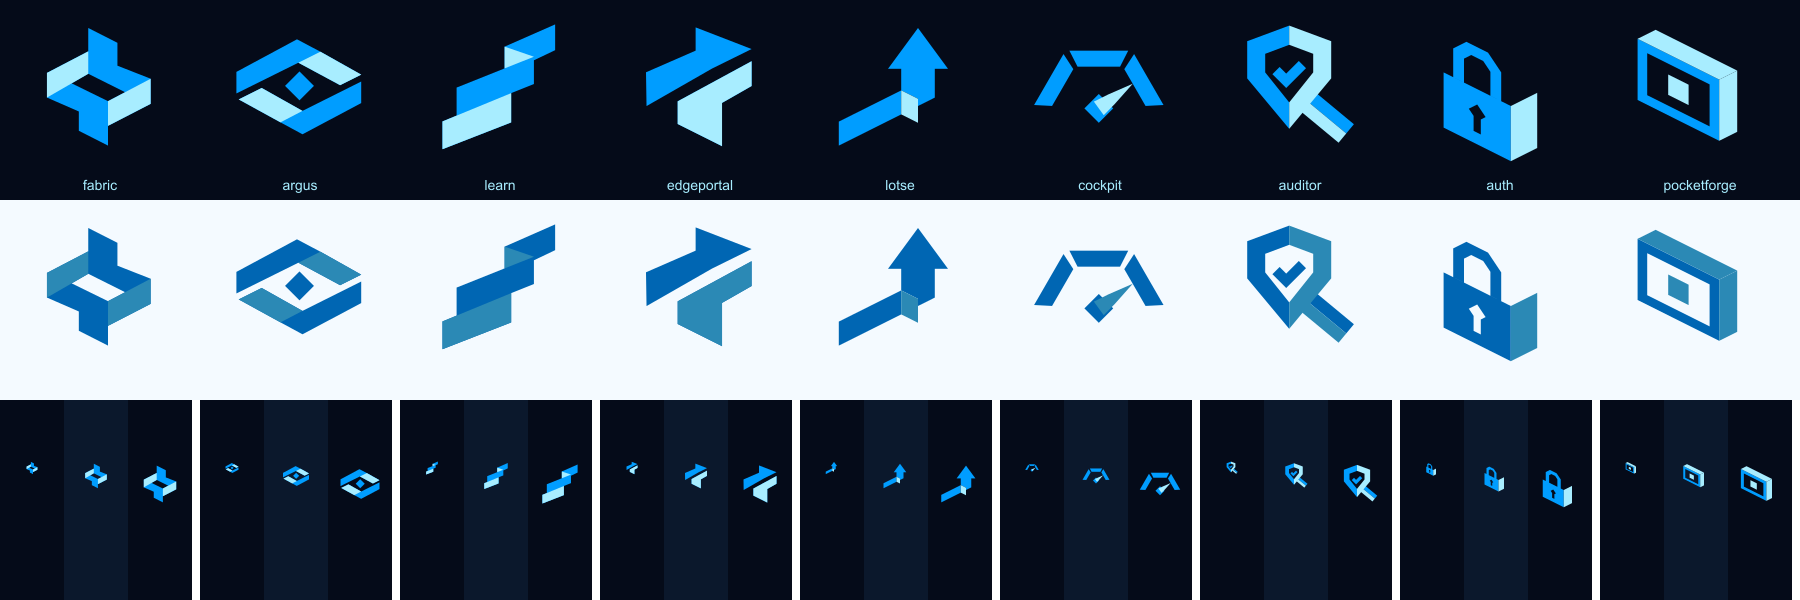
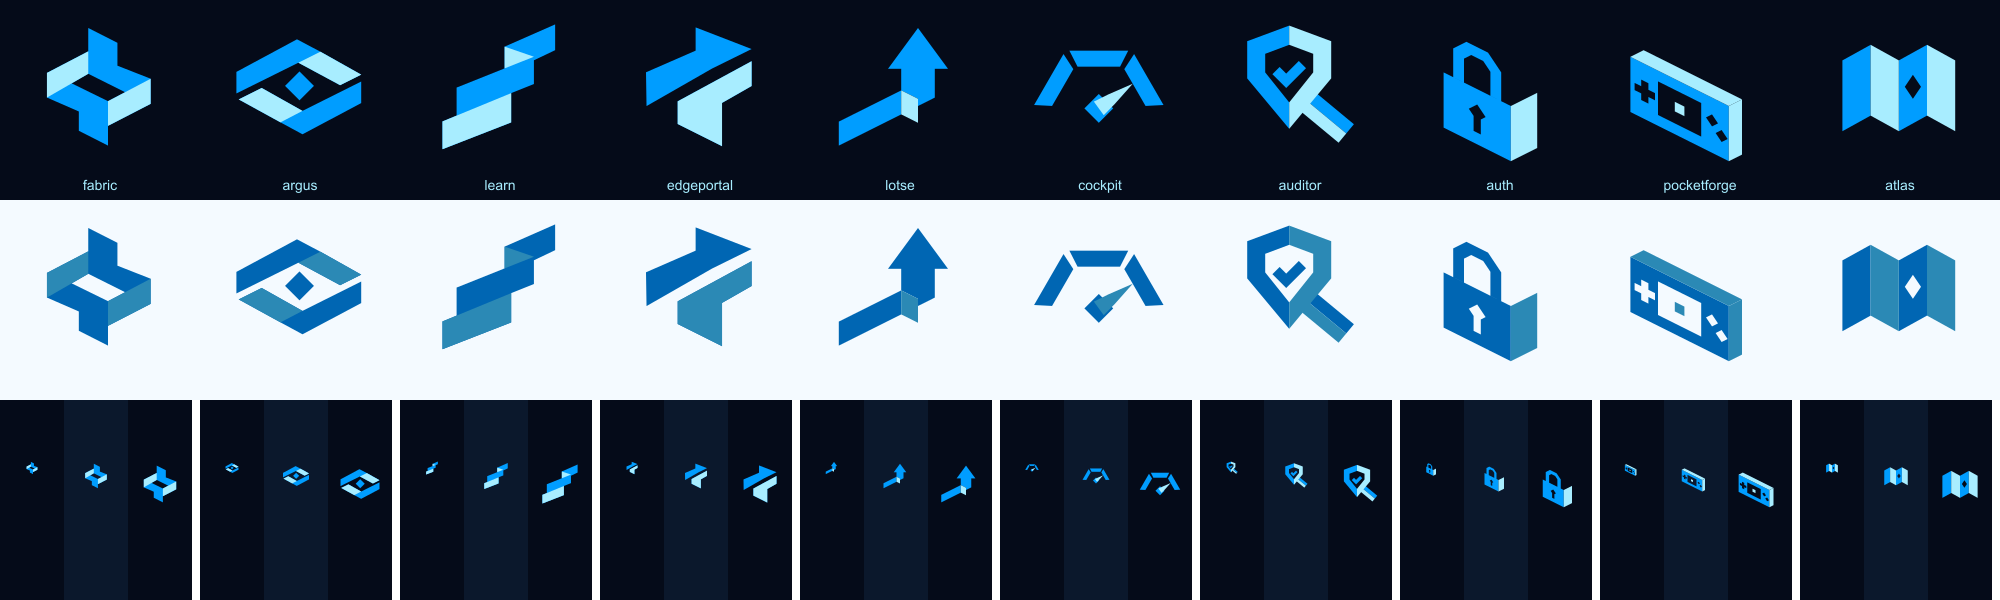
feat(rapold): Atlas signet proposal and PocketForge as a gaming handheld
- Atlas, the design system itself (atlas.rapold.io, repo mra-atlas), gets
  a proposal signet: a four-panel folded map with a cut-out location mark.
- PocketForge becomes an isometric handheld with screen, lit pixel, D-pad
  and two buttons so the gaming context reads at a glance.
- Catalogue, provenance, docs, review sheets and counts updated
  (10 products, 520 exports, 57 resources); proposal grid is 3 x 2.

diff --git a/apps/docs/app/_components/reference-page.tsx b/apps/docs/app/_components/reference-page.tsx
@@ -47,6 +47,6 @@ export default function ReferencePage({section='overview'}:{section?:string}){
  {section==='engineering'&&<div className="download-row"><a href="/contracts/engineering.md">Vollständiger Engineering-Vertrag</a><a href="https://github.com/marcelrapold/design/blob/main/CHANGELOG.md">Changelog</a></div>}
 
  {section==='agenten'&&<><label>Repository<Input value={repo} onChange={e=>setRepo(e.target.value)}/></label><pre>{prompt}</pre><Button onClick={()=>copy(prompt)}>Prompt kopieren</Button><p role="status">{copied}</p><div className="download-row"><a href={`/brands/${brand.id}/llms.txt`}>Agenten-Einstieg · {brand.id==='neutral'?'Default':brand.name}</a><a href={`/brands/${brand.id}/management.md`}>Vollständiger Management-Ablauf</a></div></>}
- {section==='coverage'&&<><div className="notice">Referenz: Atlas-Commit 1c75c95417cc371040e1e24a0986213314b53c13. Ein übernommenes Modul ist noch kein Nachweis vollständiger visueller Parität.</div><div className="data-table"><table><thead><tr><th>Bereich</th><th>Umsetzung</th></tr></thead><tbody>{[['UI-Primitives','19 von 19 exportierten Modulen übernommen und neutralisiert'],['Navigation','Gruppen, Suche, Rail, Breadcrumbs und mobile Navigation'],['Design-Tokens','Alle neutralen Atlas-Farbrollen; zusätzliche Skalen, semantische Exporte und Brand-Overrides'],['Präsentation','18 Rezepte, fünf Presets, 13 Typorollen und vermessene Geometrie'],['Icons','Vollständiger neutraler Lucide-Satz, Suche, Import und SVG'],['Firmenassets','ZVV-spezifische Logos, Linienzeichen, Lotties und Infrastruktur bewusst ausgeschlossen'],['Spezial-Showcases','Mermaid mit fünf Atlas-Beispielen, Vollbild, Brand-Themes und SVG-/MMD-Export, TanStack-Tabelle, Recharts, Formular-, Login- und Mail-Muster ausführbar. Organigramm und Zuständigkeiten mit Atlas-Renderer, SVG- und HTML-Export. ECharts mit Balken, Donut, Zeitreihe, Heatmap und SVG-Export.'],...(brand.id==='rapold'?[['Rapold','Vier freigegebene und fünf vorgeschlagene Produktzeichen, lokale Geist-Fonts, reproduzierbare Exporte und gemeinsame semantische Rollen']]:brand.id==='dominicano-express'?[['Dominicano Express','Eigenständiger Adapter mit Hell und Dunkel sowie Brand-spezifischen Inhaltsbeispielen']]:[['Default-Preset','Neutrale Basis mit Hell und Dunkel; keine Firmenassets']])].map(([a,b])=><tr key={a}><td>{a}</td><td>{b}</td></tr>)}</tbody></table></div></>}
+ {section==='coverage'&&<><div className="notice">Referenz: Atlas-Commit 1c75c95417cc371040e1e24a0986213314b53c13. Ein übernommenes Modul ist noch kein Nachweis vollständiger visueller Parität.</div><div className="data-table"><table><thead><tr><th>Bereich</th><th>Umsetzung</th></tr></thead><tbody>{[['UI-Primitives','19 von 19 exportierten Modulen übernommen und neutralisiert'],['Navigation','Gruppen, Suche, Rail, Breadcrumbs und mobile Navigation'],['Design-Tokens','Alle neutralen Atlas-Farbrollen; zusätzliche Skalen, semantische Exporte und Brand-Overrides'],['Präsentation','18 Rezepte, fünf Presets, 13 Typorollen und vermessene Geometrie'],['Icons','Vollständiger neutraler Lucide-Satz, Suche, Import und SVG'],['Firmenassets','ZVV-spezifische Logos, Linienzeichen, Lotties und Infrastruktur bewusst ausgeschlossen'],['Spezial-Showcases','Mermaid mit fünf Atlas-Beispielen, Vollbild, Brand-Themes und SVG-/MMD-Export, TanStack-Tabelle, Recharts, Formular-, Login- und Mail-Muster ausführbar. Organigramm und Zuständigkeiten mit Atlas-Renderer, SVG- und HTML-Export. ECharts mit Balken, Donut, Zeitreihe, Heatmap und SVG-Export.'],...(brand.id==='rapold'?[['Rapold','Vier freigegebene und sechs vorgeschlagene Produktzeichen, lokale Geist-Fonts, reproduzierbare Exporte und gemeinsame semantische Rollen']]:brand.id==='dominicano-express'?[['Dominicano Express','Eigenständiger Adapter mit Hell und Dunkel sowie Brand-spezifischen Inhaltsbeispielen']]:[['Default-Preset','Neutrale Basis mit Hell und Dunkel; keine Firmenassets']])].map(([a,b])=><tr key={a}><td>{a}</td><td>{b}</td></tr>)}</tbody></table></div></>}
  </>;
 }

diff --git a/apps/docs/app/_components/catalog.ts b/apps/docs/app/_components/catalog.ts
@@ -28,9 +28,9 @@ export const guidance:Record<string,{intro:string;sections:{title:string;body:st
 export function guidanceFor(section:string, brandId:string) {
  const base=guidance[section];
  if(!base)return base;
- if(brandId==='rapold'&&section==='brand')return {intro:'Eine Rapold-Brand mit eigenständigen Produktzeichen und gemeinsamen UI-Rollen: vier freigegeben, fünf als Vorschlag.',sections:[
+ if(brandId==='rapold'&&section==='brand')return {intro:'Eine Rapold-Brand mit eigenständigen Produktzeichen und gemeinsamen UI-Rollen: vier freigegeben, sechs als Vorschlag.',sections:[
   {title:'Originale und Ableitungen',body:'Die Raumfalten-Signets stammen aus dem ausgewählten Logo-Entwurf. Geometrie und Identitätsfarben bleiben unverändert. UI-Farben, Fokus und Status sind dokumentierte Kontrastableitungen für Hell und Dunkel.'},
-  {title:'Ein Vertrag für alle Produkte',body:'Fabric, Argus, ÆON Learn und EdgePortal verwenden dieselbe Rapold-Brand mit freigegebenen Signets. Lotse, Cockpit, Auditor, Rapold Auth und PocketForge sind als Vorschläge aus ihren bisherigen Zeichen abgeleitet. Der separate Produktkatalog bestimmt das jeweilige Signet und seinen Status. Es gibt kein zusätzlich erfundenes Dachzeichen.'},
+  {title:'Ein Vertrag für alle Produkte',body:'Fabric, Argus, ÆON Learn und EdgePortal verwenden dieselbe Rapold-Brand mit freigegebenen Signets. Lotse, Cockpit, Auditor, Rapold Auth, PocketForge und Atlas sind als Vorschläge aus ihren bisherigen Zeichen abgeleitet. Der separate Produktkatalog bestimmt das jeweilige Signet und seinen Status. Es gibt kein zusätzlich erfundenes Dachzeichen.'},
   {title:'Freigabe und Prüfung',body:'Die Zeichenwahl ist dokumentiert. Der neue Adapter trägt bis zur Abnahme der integrierten Oberfläche den Status draft. Der Apple-orientierte Web-Audit dokumentiert Befunde, Korrekturen und verbleibende Prüfgrenzen.'}
  ]};
  if(brandId==='dominicano-express'&&section==='brand')return {intro:'Dominicano Express als eigenständiger Brand-Adapter.',sections:[{title:'Aktive Identität',body:'Der Brand-Vertrag enthält die Palette, semantische Rollen für Hell und Dunkel sowie Typografie und Formregeln. Die Freigabe steht mit Status draft noch aus.'},{title:'Markenbeispiele',body:'Die Caja-Infografik erscheint ausschliesslich in dieser Brand. Andere Themes verwenden das neutrale Inhaltsmuster.'}]};

diff --git a/apps/docs/app/_components/presentation-page.tsx b/apps/docs/app/_components/presentation-page.tsx
@@ -19,7 +19,7 @@ const brandFaqs:Record<string,[string,string][]>={
  ],
  rapold:[
   ['Sind Bilder und Logos dabei?','Die Produktzeichen für AI Fabric, Argus, ÆON Learn und EdgePortal stehen im Rapold-Assetkatalog. Für das gemeinsame Theme ist kein Dachmarkenlogo festgelegt. Fotografische Motive liefert das Projekt.'],
-  ['Welche Vorgaben gelten?','Rapold-Farben und Geist ergänzen die Atlas-Layouts. Die vier ursprünglichen Produktsignets sind freigegeben, fünf weitere liegen als Vorschlag vor; der gemeinsame UI-Adapter ist separat als Entwurf dokumentiert.']
+  ['Welche Vorgaben gelten?','Rapold-Farben und Geist ergänzen die Atlas-Layouts. Die vier ursprünglichen Produktsignets sind freigegeben, sechs weitere liegen als Vorschlag vor; der gemeinsame UI-Adapter ist separat als Entwurf dokumentiert.']
  ]
 };
 function RenderedSlide({brand,id,large=false}:{brand:string;id:string;large?:boolean}){return <img className="rendered-slide" src={`/brands/${brand}/reference/${id}.png`} width={1280} height={720} alt={`Gerenderte Musterfolie: ${slides.find(s=>s.id===id)?.titel}`} loading={large?'eager':'lazy'}/>;}

diff --git a/brands/rapold/theme.css b/brands/rapold/theme.css
@@ -28,7 +28,7 @@
 .rapold-intro-meta {display: flex; flex-direction: column; gap: 6px; flex-shrink: 0; padding-bottom: 4px; color: var(--muted-foreground); font: 12px/1.6 var(--font-mono);}
 .rapold-intro-meta strong {font-size: 48px; font-weight: 400; line-height: 1.2; letter-spacing: -.08em; margin-bottom: 12px; color: var(--primary);}
 .rapold-family {display: grid; grid-template-columns: repeat(4, minmax(0, 1fr)); gap: 12px; margin: 14px 0 18px;}
-.rapold-family[data-status='proposal'] {grid-template-columns: repeat(5, minmax(0, 1fr));}
+.rapold-family[data-status='proposal'] {grid-template-columns: repeat(3, minmax(0, 1fr));}
 .rapold-family-heading {display: flex; flex-wrap: wrap; align-items: baseline; gap: 4px 12px; margin: 30px 0 0; font-size: 16px; font-weight: 650; letter-spacing: -.01em;}
 .rapold-family-heading span {font-size: 13px; font-weight: 400; color: var(--muted-foreground);}
 .rapold-product-status {margin: 0 8px 0 auto; padding: 0 8px; border: 1px dashed var(--muted-foreground); border-radius: 999px; font-size: 11px; line-height: 20px;}

diff --git a/brands/rapold/README.md b/brands/rapold/README.md
@@ -1,6 +1,6 @@
 # Rapold
 
-Ein optional wählbares Rapold-Theme für die Produkte AI Fabric, Argus, ÆON Learn und EdgePortal (freigegebene Signets) sowie Lotse, Cockpit, Auditor, Rapold Auth und PocketForge (Signet-Vorschläge). Es liefert eine gemeinsame Farb- und Typografiebasis für das neutrale Framework. Der Framework-Default bleibt `neutral`.
+Ein optional wählbares Rapold-Theme für die Produkte AI Fabric, Argus, ÆON Learn und EdgePortal (freigegebene Signets) sowie Lotse, Cockpit, Auditor, Rapold Auth, PocketForge und das Designsystem Atlas (Signet-Vorschläge). Es liefert eine gemeinsame Farb- und Typografiebasis für das neutrale Framework. Der Framework-Default bleibt `neutral`.
 
 **Status des UI-Adapters: `draft`, Version 0.2.0.** Marcel Rapold hat am **11.10.2026** die vier Signets der Raumfalten-Familie B freigegeben. Die neue Zuordnung zu vollständigen UI-Rollen und ihre visuelle Abnahme bleiben als separate Integrationsarbeit dokumentiert.
 
@@ -11,7 +11,7 @@ Ein optional wählbares Rapold-Theme für die Produkte AI Fabric, Argus, ÆON Le
 | Ebene | Inhalt | Kanonische Quelle |
 |---|---|---|
 | Gemeinsames Theme | `rapold`: Farben, Geist, helle und dunkle semantische Rollen | `packages/brands/src/rapold.json` |
-| Produktidentität | Vier freigegebene und fünf vorgeschlagene eigenständige Zeichen, jeweils mit `status` | [identity.json](identity.json) |
+| Produktidentität | Vier freigegebene und sechs vorgeschlagene eigenständige Zeichen, jeweils mit `status` | [identity.json](identity.json) |
 | Produktassets | Transparente SVG-Master und Farbvarianten | `brands/rapold/assets/logos/` |
 | Belegte Ausgangswerte | Unveränderte Tokenkopie des gelieferten Brand-Pakets | `brands/rapold/sources/brand-tokens.json` |
 | Herkunft und Ableitungen | Nutzerfreigabe, Prüfsumme, Quellen und UI-Verfeinerungen | `brands/rapold/sources/provenance.json` |
@@ -39,7 +39,8 @@ Die folgenden Signets sind **Vorschläge** (`status: "proposal"`), keine Freigab
 | `cockpit` | Cockpit · cockpit.rapold.io | Tacho mit Nadel | Dreiteilige Faltskala mit Rautenachse und heller Nadel | [cockpit.svg](assets/logos/cockpit.svg) |
 | `auditor` | Auditor · auditor.rapold.io | Schild mit Prüfhaken | Schild als Lupenrahmen: senkrecht gefaltet, Prüfhaken im Glas, gefalteter Griff | [auditor.svg](assets/logos/auditor.svg) |
 | `auth` | Rapold Auth · auth.rapold.io | Pulslinie | Isometrisches Schloss; die Pulslinie wurde bewusst ersetzt, weil der Dienst Zugang darstellt | [auth.svg](assets/logos/auth.svg) |
-| `pocketforge` | PocketForge · game.rapold.io | 4:3-Bildschirm mit einem Pixel | Isometrischer 4:3-Bildschirm mit leuchtendem Pixel | [pocketforge.svg](assets/logos/pocketforge.svg) |
+| `pocketforge` | PocketForge · game.rapold.io | 4:3-Bildschirm mit einem Pixel | Isometrischer Handheld mit Bildschirm, leuchtendem Pixel, Steuerkreuz und Tasten | [pocketforge.svg](assets/logos/pocketforge.svg) |
+| `atlas` | Atlas · atlas.rapold.io | Kein eigenes Zeichen (Ebenen-Symbol) | Gefaltete Karte (Leporello) mit freigestellter Ortsmarke | [atlas.svg](assets/logos/atlas.svg) |
 
 Die Geometrie wird in [`scripts/build-signet-proposals.mjs`](../../scripts/build-signet-proposals.mjs) konstruiert und als SVG-Master geschrieben; der normale Build liest nur die Master. Für die Vorschläge gibt es noch keine eigenen Produktwelten; die Referenz zeigt dort einen Hinweis.
 

diff --git a/CHANGELOG.md b/CHANGELOG.md
@@ -2,9 +2,9 @@
 
 ## 0.7.0 — 2026-10-11
 
-- Fünf Signet-Vorschläge in der Rapold-Familie: Lotse, Cockpit, Auditor, Rapold Auth und PocketForge. Jeder Vorschlag greift das bisherige Zeichen des Produkt-Repositorys auf und überträgt es in die Raumfalten-Grammatik (Herkunft je Zeichen in `provenance.json`).
+- Sechs Signet-Vorschläge in der Rapold-Familie: Lotse, Cockpit, Auditor, Rapold Auth, PocketForge und das Designsystem Atlas. Jeder Vorschlag greift das bisherige Zeichen des Produkt-Repositorys auf und überträgt es in die Raumfalten-Grammatik (Herkunft je Zeichen in `provenance.json`).
 - Produktkatalog mit `status` je Produkt (`approved` / `proposal`). Die Freigabe der vier ursprünglichen Signets bleibt unverändert und wird durch Vorschläge nicht erweitert.
-- Vollständige Exportpalette auch für die Vorschläge: 468 Exporte und 52 kanonische Ressourcen für neun Produkte. Zählungen in Tests und Build-Prüfung leiten sich aus dem Katalog ab.
+- Vollständige Exportpalette auch für die Vorschläge: 520 Exporte und 57 kanonische Ressourcen für zehn Produkte. Zählungen in Tests und Build-Prüfung leiten sich aus dem Katalog ab.
 - Markenseite gliedert die Familie in «Freigegebene Signets» und «Vorschläge»; Produkte ohne eigene Produktwelt zeigen einen Hinweis statt stillschweigend die AI-Fabric-Welt.
 
 ## 0.6.0 — 2026-10-11

diff --git a/README.md b/README.md
@@ -58,7 +58,7 @@ Bei Änderungen an der Brand-Registry entfernt die Generierung nicht mehr regist
 ## Ausprägungen
 
 - Neutral: vollständige helle und dunkle Basis.
-- Rapold: gemeinsame Brand für Fabric, Argus, ÆON Learn und EdgePortal (freigegeben) sowie Lotse, Cockpit, Auditor, Rapold Auth und PocketForge (Vorschläge). 45 SVG-Master, lokale Geist-Fonts und 468 reproduzierbare Exporte. Status `draft` für den neuen UI-Adapter. Markenansicht: `/brand?brand=rapold`. [Quellen und Anwendung](brands/rapold/README.md).
+- Rapold: gemeinsame Brand für Fabric, Argus, ÆON Learn und EdgePortal (freigegeben) sowie Lotse, Cockpit, Auditor, Rapold Auth, PocketForge und Atlas (Vorschläge). 50 SVG-Master, lokale Geist-Fonts und 520 reproduzierbare Exporte. Status `draft` für den neuen UI-Adapter. Markenansicht: `/brand?brand=rapold`. [Quellen und Anwendung](brands/rapold/README.md).
 - Dominicano Express: eigenständiges helles und dunkles Preset mit seinem Caja-Inhaltsbeispiel.
 
 Firmenlogos, interne Vorgaben und lizenzierte Assets sind getrennt vom neutralen Core. Eine künftige freie Code-Lizenz erteilt keine Marken- oder Fontrechte.
